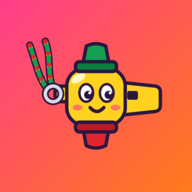
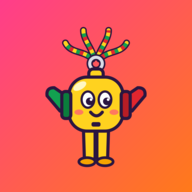
Apito als Figur: Kordel-Haare, Kammer-Arme, Mundstück-Beine

Changed region(s): [[0.125, 0.125, 0.875, 0.875]]

diff --git a/src/components/Mascot.svelte b/src/components/Mascot.svelte
@@ -1,5 +1,8 @@
 <script lang="ts">
-  /** Apito, das Maskottchen: eine Dreiton-Sambapfeife mit Gesicht. */
+  /**
+   * Apito, das Maskottchen: eine Dreiton-Sambapfeife als Figur.
+   * Kordel = Haare, grüne und rote Kammer = Arme, Mundstück = Beine.
+   */
   let {
     mood = 'happy',
     size = '4rem',
@@ -8,63 +11,77 @@
 
   const ink = '#2b1640'
   const yellow = '#ffd21f'
-  const strands = ['M20 49 C 10 36, 8 20, 2 4', 'M25 46 C 20 30, 24 16, 18 0']
+  const hair = [
+    'M66 14 C 56 4, 42 8, 36 -4',
+    'M68 12 C 64 0, 56 -8, 56 -18',
+    'M72 12 C 76 0, 84 -8, 84 -18',
+    'M74 14 C 84 4, 98 8, 104 -4',
+  ]
 </script>
 
-<svg class="apito" class:bounce style="width: {size}" viewBox="-2 -4 142 118" role="img" aria-label="Apito">
+<svg class="apito" class:bounce style="width: {size}" viewBox="-4 -24 148 162" role="img" aria-label="Apito">
   <g stroke-linejoin="round">
-    <!-- geflochtene Kordel in Rot, Grün, Gelb -->
-    <g fill="none">
-      {#each strands as d, i}
+    <!-- Haare: geflochtene Kordel in Rot, Grün, Gelb -->
+    <g fill="none" class="hair">
+      {#each hair as d, i}
         <path {d} stroke={ink} stroke-width="7.5" stroke-linecap="round" />
         <path {d} stroke={yellow} stroke-width="4.5" stroke-linecap="round" />
-        <path {d} stroke="#e0262f" stroke-width="4.5" stroke-dasharray="4 8" stroke-dashoffset={i * 2} />
-        <path {d} stroke="#12a150" stroke-width="4.5" stroke-dasharray="4 8" stroke-dashoffset={8 + i * 2} />
+        <path {d} stroke="#e0262f" stroke-width="4.5" stroke-dasharray="4 8" stroke-dashoffset={i * 3} />
+        <path {d} stroke="#12a150" stroke-width="4.5" stroke-dasharray="4 8" stroke-dashoffset={8 + i * 3} />
       {/each}
     </g>
-    <!-- Öse und Ring -->
-    <rect x="28" y="46" width="18" height="16" rx="6" fill={yellow} stroke={ink} stroke-width="3.5" />
-    <circle cx="26" cy="54" r="8" fill="none" stroke={ink} stroke-width="7" />
-    <circle cx="26" cy="54" r="8" fill="none" stroke="#d9dce6" stroke-width="3.5" />
-    <!-- grüne und rote Kammer -->
-    <path d="M56 26 L60 5 Q70 0 80 5 L84 26 Z" fill="#12a150" stroke={ink} stroke-width="3.5" />
-    <path d="M56 86 L60 107 Q70 112 80 107 L84 86 Z" fill="#e0262f" stroke={ink} stroke-width="3.5" />
-    <!-- Mundstück mit Fenster -->
-    <path d="M94 42 L131 46 Q136 47 136 52 L136 66 Q136 71 131 72 L94 76 Z" fill={yellow} stroke={ink} stroke-width="3.5" />
-    <rect x="102" y="51" width="11" height="9" rx="2" fill={ink} />
-    <!-- Körper -->
-    <rect x="40" y="28" width="60" height="58" rx="18" fill={yellow} stroke={ink} stroke-width="3.5" />
-    <ellipse cx="52" cy="38" rx="8" ry="4" fill="#fff7c2" transform="rotate(-30 52 38)" />
-    <rect x="49" y="21" width="42" height="10" rx="4" fill="#0b7d3c" stroke={ink} stroke-width="3.5" />
-    <rect x="49" y="83" width="42" height="10" rx="4" fill="#b81d25" stroke={ink} stroke-width="3.5" />
+    <!-- Ring und Öse -->
+    <circle cx="70" cy="19" r="7" fill="none" stroke={ink} stroke-width="7" />
+    <circle cx="70" cy="19" r="7" fill="none" stroke="#d9dce6" stroke-width="3.5" />
+    <rect x="62" y="25" width="16" height="13" rx="5" fill={yellow} stroke={ink} stroke-width="3.5" />
+
+    <!-- Arme: grüne und rote Kammer, hochgerissen -->
+    <g class="arm left">
+      <path d="M36 56 L14 59 Q7 65 14 71 L36 74 Z" fill="#12a150" stroke={ink} stroke-width="3.5" transform="rotate(42 36 65)" />
+    </g>
+    <g class="arm right">
+      <path d="M104 56 L126 59 Q133 65 126 71 L104 74 Z" fill="#e0262f" stroke={ink} stroke-width="3.5" transform="rotate(-42 104 65)" />
+    </g>
+
+    <!-- Beine: das geteilte Mundstück, mit Füßen -->
+    <path d="M56 90 L57 122 Q57 126 61 126 L66 126 Q69 126 69 122 L69 90 Z" fill={yellow} stroke={ink} stroke-width="3.5" />
+    <path d="M71 90 L71 122 Q71 126 74 126 L79 126 Q83 126 83 122 L84 90 Z" fill={yellow} stroke={ink} stroke-width="3.5" />
+    <ellipse cx="60" cy="128" rx="9" ry="4.5" fill="#f5a400" stroke={ink} stroke-width="3" />
+    <ellipse cx="80" cy="128" rx="9" ry="4.5" fill="#f5a400" stroke={ink} stroke-width="3" />
+
+    <!-- Körper mit Fenster als Bauchnabel -->
+    <rect x="40" y="34" width="60" height="60" rx="20" fill={yellow} stroke={ink} stroke-width="3.5" />
+    <ellipse cx="52" cy="44" rx="8" ry="4" fill="#fff7c2" transform="rotate(-30 52 44)" />
+    <rect x="65" y="84" width="10" height="5" rx="2" fill={ink} />
+    <rect x="32" y="50" width="10" height="30" rx="4" fill="#0b7d3c" stroke={ink} stroke-width="3.5" />
+    <rect x="98" y="50" width="10" height="30" rx="4" fill="#b81d25" stroke={ink} stroke-width="3.5" />
 
     <!-- Augen -->
     {#if mood === 'wink'}
-      <path d="M54 54 q 6 -6 12 0" fill="none" stroke={ink} stroke-width="3.5" stroke-linecap="round" />
+      <path d="M55 60 q 6 -6 12 0" fill="none" stroke={ink} stroke-width="3.5" stroke-linecap="round" />
     {:else}
-      <ellipse cx="60" cy="53" rx="7" ry="9" fill="white" stroke={ink} stroke-width="2.5" />
-      <circle cx="62" cy="55" r="4.2" fill={ink} />
-      <circle cx="63.5" cy="53" r="1.5" fill="white" />
+      <ellipse cx="61" cy="59" rx="7" ry="9" fill="white" stroke={ink} stroke-width="2.5" />
+      <circle cx="63" cy="61" r="4.2" fill={ink} />
+      <circle cx="64.5" cy="59" r="1.5" fill="white" />
     {/if}
-    <ellipse cx="81" cy="53" rx="7" ry="9" fill="white" stroke={ink} stroke-width="2.5" />
-    <circle cx="83" cy="55" r="4.2" fill={ink} />
-    <circle cx="84.5" cy="53" r="1.5" fill="white" />
+    <ellipse cx="80" cy="59" rx="7" ry="9" fill="white" stroke={ink} stroke-width="2.5" />
+    <circle cx="82" cy="61" r="4.2" fill={ink} />
+    <circle cx="83.5" cy="59" r="1.5" fill="white" />
 
     <!-- Bäckchen -->
-    <ellipse cx="51" cy="68" rx="5" ry="3" fill="#ff3d8b" opacity="0.6" />
-    <ellipse cx="90" cy="68" rx="5" ry="3" fill="#ff3d8b" opacity="0.6" />
+    <ellipse cx="51" cy="73" rx="5" ry="3" fill="#ff3d8b" opacity="0.6" />
+    <ellipse cx="90" cy="73" rx="5" ry="3" fill="#ff3d8b" opacity="0.6" />
 
     <!-- Mund -->
     {#if mood === 'blow'}
-      <ellipse cx="71" cy="70" rx="4" ry="5" fill={ink} />
-      <!-- Pfiff aus dem Fenster -->
+      <ellipse cx="70.5" cy="75" rx="4" ry="5" fill={ink} />
       <g class="sound" fill="none" stroke="#ff3d8b" stroke-width="3.5" stroke-linecap="round">
-        <path d="M108 40 q 2 -8 9 -12" />
-        <path d="M117 44 q 6 -6 14 -6" />
-        <path d="M103 36 q -1 -8 3 -14" />
+        <path d="M112 36 q 8 -4 12 -12" />
+        <path d="M116 46 q 10 0 18 -6" />
+        <path d="M106 28 q 2 -8 8 -12" />
       </g>
     {:else}
-      <path d="M64 68 q 7 8 14 0" fill="none" stroke={ink} stroke-width="3.5" stroke-linecap="round" />
+      <path d="M64 73 q 6.5 8 13 0" fill="none" stroke={ink} stroke-width="3.5" stroke-linecap="round" />
     {/if}
   </g>
 </svg>
@@ -75,9 +92,24 @@
     height: auto;
     overflow: visible;
   }
+  .arm {
+    transform-box: view-box;
+  }
+  .arm.left {
+    transform-origin: 36px 65px;
+  }
+  .arm.right {
+    transform-origin: 104px 65px;
+  }
   .bounce {
     animation: bounce 1.6s ease-in-out infinite;
     transform-origin: 50% 100%;
+  }
+  .bounce .arm.left {
+    animation: wave-left 0.8s ease-in-out infinite alternate;
+  }
+  .bounce .arm.right {
+    animation: wave-right 0.8s ease-in-out infinite alternate;
   }
   @keyframes bounce {
     0%,
@@ -86,6 +118,16 @@
     }
     50% {
       transform: translateY(-6%) rotate(3deg);
+    }
+  }
+  @keyframes wave-left {
+    to {
+      transform: rotate(14deg);
+    }
+  }
+  @keyframes wave-right {
+    to {
+      transform: rotate(-14deg);
     }
   }
   .sound {
@@ -98,6 +140,7 @@
   }
   @media (prefers-reduced-motion: reduce) {
     .bounce,
+    .bounce .arm,
     .sound {
       animation: none;
     }

diff --git a/src/App.svelte b/src/App.svelte
@@ -30,7 +30,7 @@
   <Garland />
   <div class="bar">
     <a class="logo" href={href({ name: 'overview' })}>
-      <Mascot size="2.6rem" />
+      <Mascot size="3.2rem" />
       <span class="word">{t.appName}</span>
     </a>
     <a class="help" href={href({ name: 'intro' })} aria-label={t.help} title={t.help}>?</a>

diff --git a/IDEA.md b/IDEA.md
@@ -166,6 +166,7 @@ gibt sie seinen Schülern frei → braucht eine **Marketplace-/Freigabe-Logik**.
 - **Design**: bunt, Samba-Fest (Bandeirinhas, Pink/Orange/Gelb/Grün/Lila),
   Schrift Baloo 2 lokal eingebunden (offline-fähig).
 - **Name & Branding**: Die App heißt **Apito** (die Sambapfeife). Maskottchen ist
-  Apito selbst, eine gelbe Pfeife mit Gesicht: „Oi! Ich bin Apito, dein digitaler
+  Apito selbst, eine Dreiton-Sambapfeife als Figur (Kordel = Haare, grüne und
+  rote Kammer = Arme, Mundstück = Beine): „Oi! Ich bin Apito, dein digitaler
   Anpfeifer zum Üben zu Hause – ganz ohne Band.“ Gespeicherte Daten und
   Exportdateien aus der Zeit als Samba-Trainer werden weiter gelesen.
